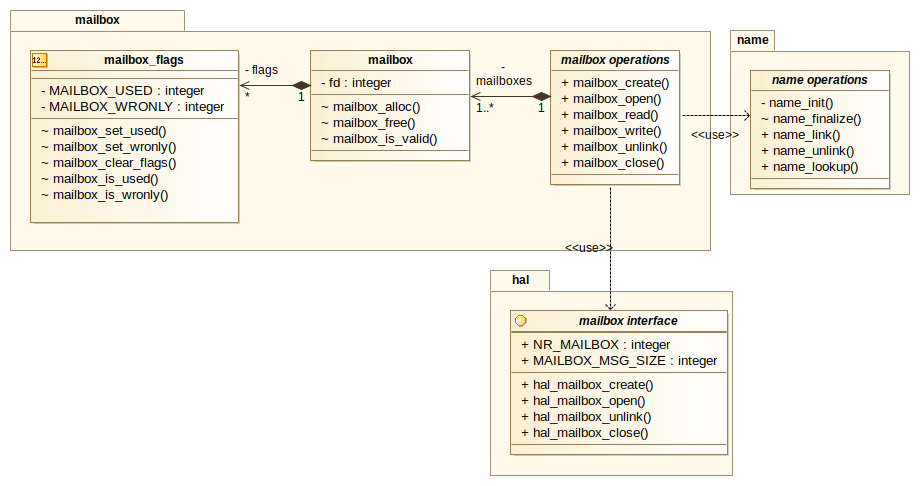
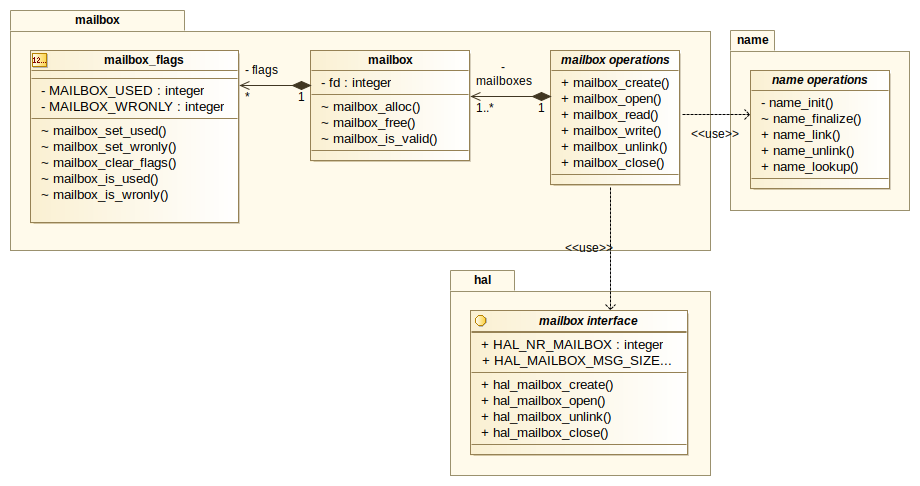
Updating Class Diagrams

diff --git a/include/nanvix/arch/mppa.h b/include/nanvix/arch/mppa.h
@@ -1,20 +1,20 @@
 /*
- * Copyright(C) 2011-2017 Pedro H. Penna <pedrohenriquepenna@gmail.com>
- *
+ * Copyright(C) 2011-2018 Pedro H. Penna <pedrohenriquepenna@gmail.com>
+ * 
  * This file is part of Nanvix.
- *
+ * 
  * Nanvix is free software; you can redistribute it and/or modify
  * it under the terms of the GNU General Public License as published by
  * the Free Software Foundation; either version 3 of the License, or
  * (at your option) any later version.
- *
+ * 
  * Nanvix is distributed in the hope that it will be useful,
  * but WITHOUT ANY WARRANTY; without even the implied warranty of
  * MERCHANTABILITY or FITNESS FOR A PARTICULAR PURPOSE.  See the
  * GNU General Public License for more details.
- *
+ * 
  * You should have received a copy of the GNU General Public License
- * auint64_t with Nanvix. If not, see <http://www.gnu.org/licenses/>.
+ * along with Nanvix. If not, see <http://www.gnu.org/licenses/>.
  */
 
 #ifndef NANVIX_ARCH_MPPA256
@@ -47,6 +47,11 @@
 	 * @brief Number of cluster in the paltform.
 	 */
 	#define HAL_NR_CLUSTERS 20
+
+	/**
+	 * @brief Number of NoC nodes.
+	 */
+	#define HAL_NR_NOC_NODES 24
 
 /*===========================================================================*
  * Mailbox Interface                                                         *
@@ -96,20 +101,14 @@
 	 * @brief Number of mailboxes.
 	 */
 	#ifdef _KALRAY_MPPA_CCLUSTER_
-		#define HAL_NR_MAILBOX 24
+		#define HAL_NR_MAILBOX HAL_NR_NOC_NODES
 	#else
-		#define HAL_NR_MAILBOX (4*24)
+		#define HAL_NR_MAILBOX (4*HAL*NR_NOC_NODES)
 	#endif
 
 	/**
 	 * @brief Size (in bytes) of a mailbox message.
 	 */
 	#define HAL_MAILBOX_MSG_SIZE 64
-
-	/**
-	 * @brief Overall number of Noc node ID.
-	 */
-	#define HAL_NR_NOC_NODES \
-		(NR_CCLUSTER*NR_CCLUSTER_DMA + NR_IOCLUSTER*NR_IOCLUSTER_DMA)
 
 #endif /* NANVIX_ARCH_MPPA256 */

diff --git a/src/kernel/arch/mppa/name.c b/src/kernel/arch/mppa/name.c
@@ -17,14 +17,14 @@
  * along with Nanvix. If not, see <http://www.gnu.org/licenses/>.
  */
 
-#include <nanvix/name.h>
-#include <nanvix/pm.h>
-#include <nanvix/klib.h>
-#include <nanvix/hal.h>
 #include <errno.h>
 #include <stdio.h>
 #include <string.h>
 #include <assert.h>
+
+#include <nanvix/name.h>
+#include <nanvix/pm.h>
+#include <nanvix/hal.h>
 
 #include "mppa.h"
 
